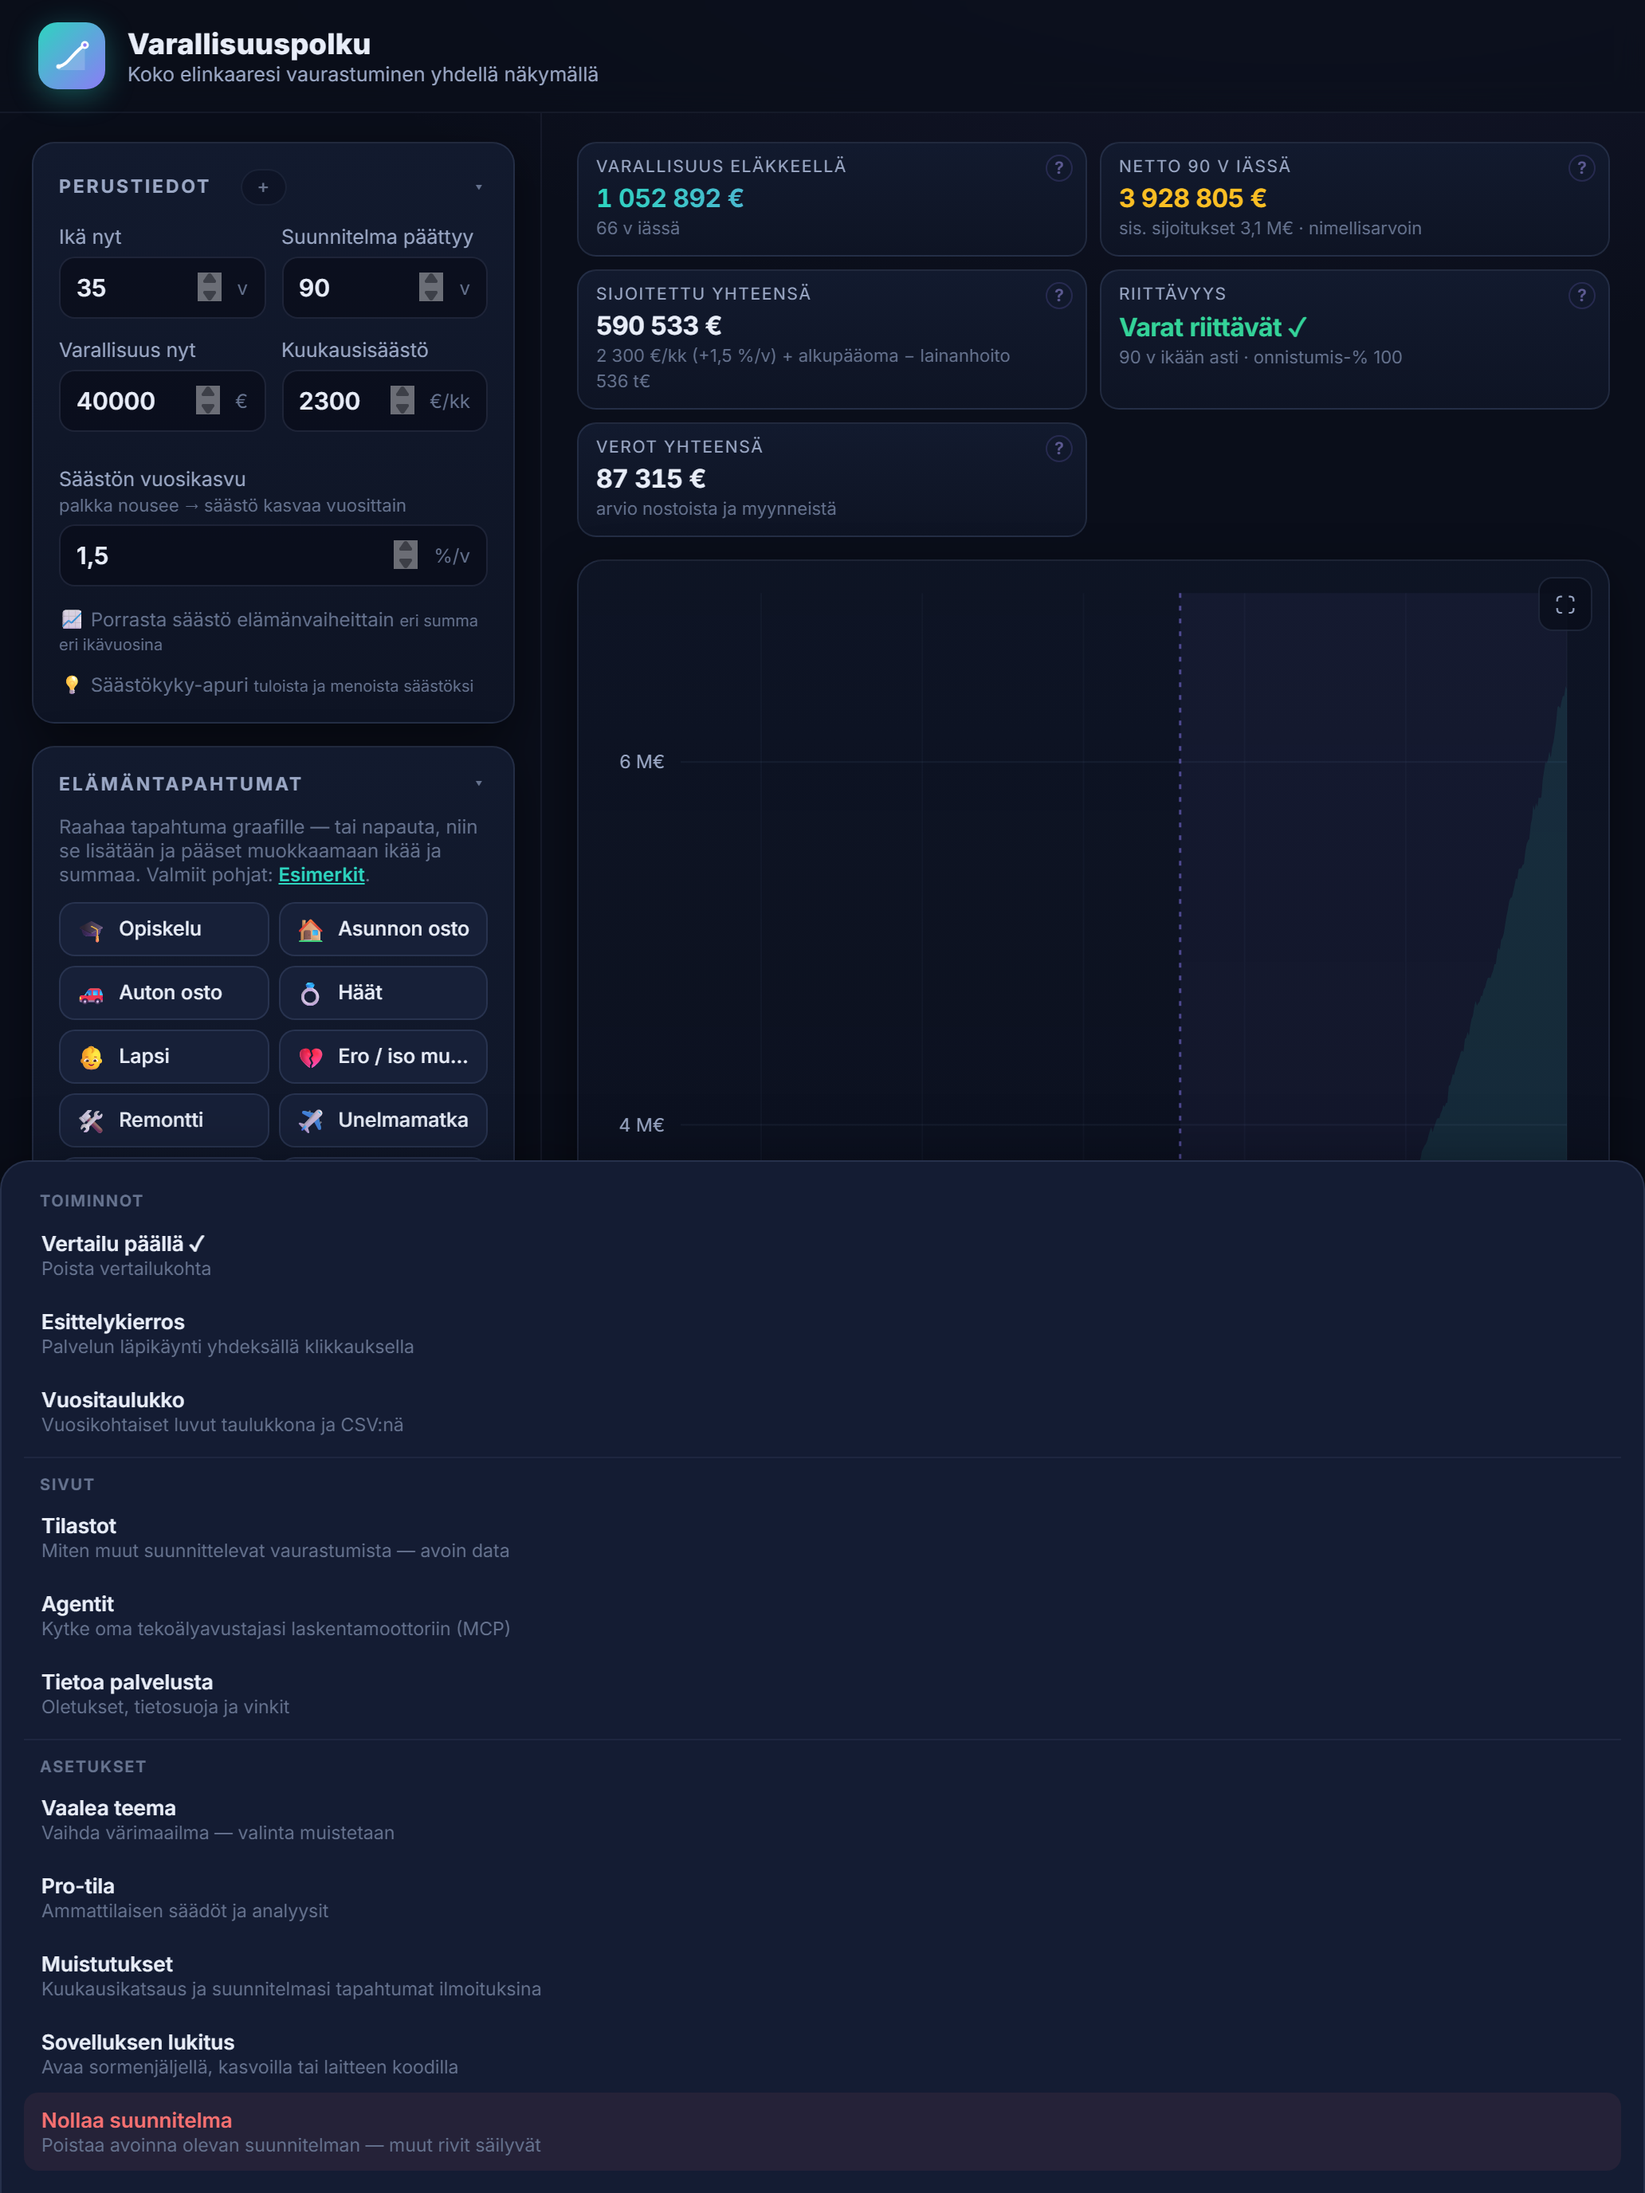
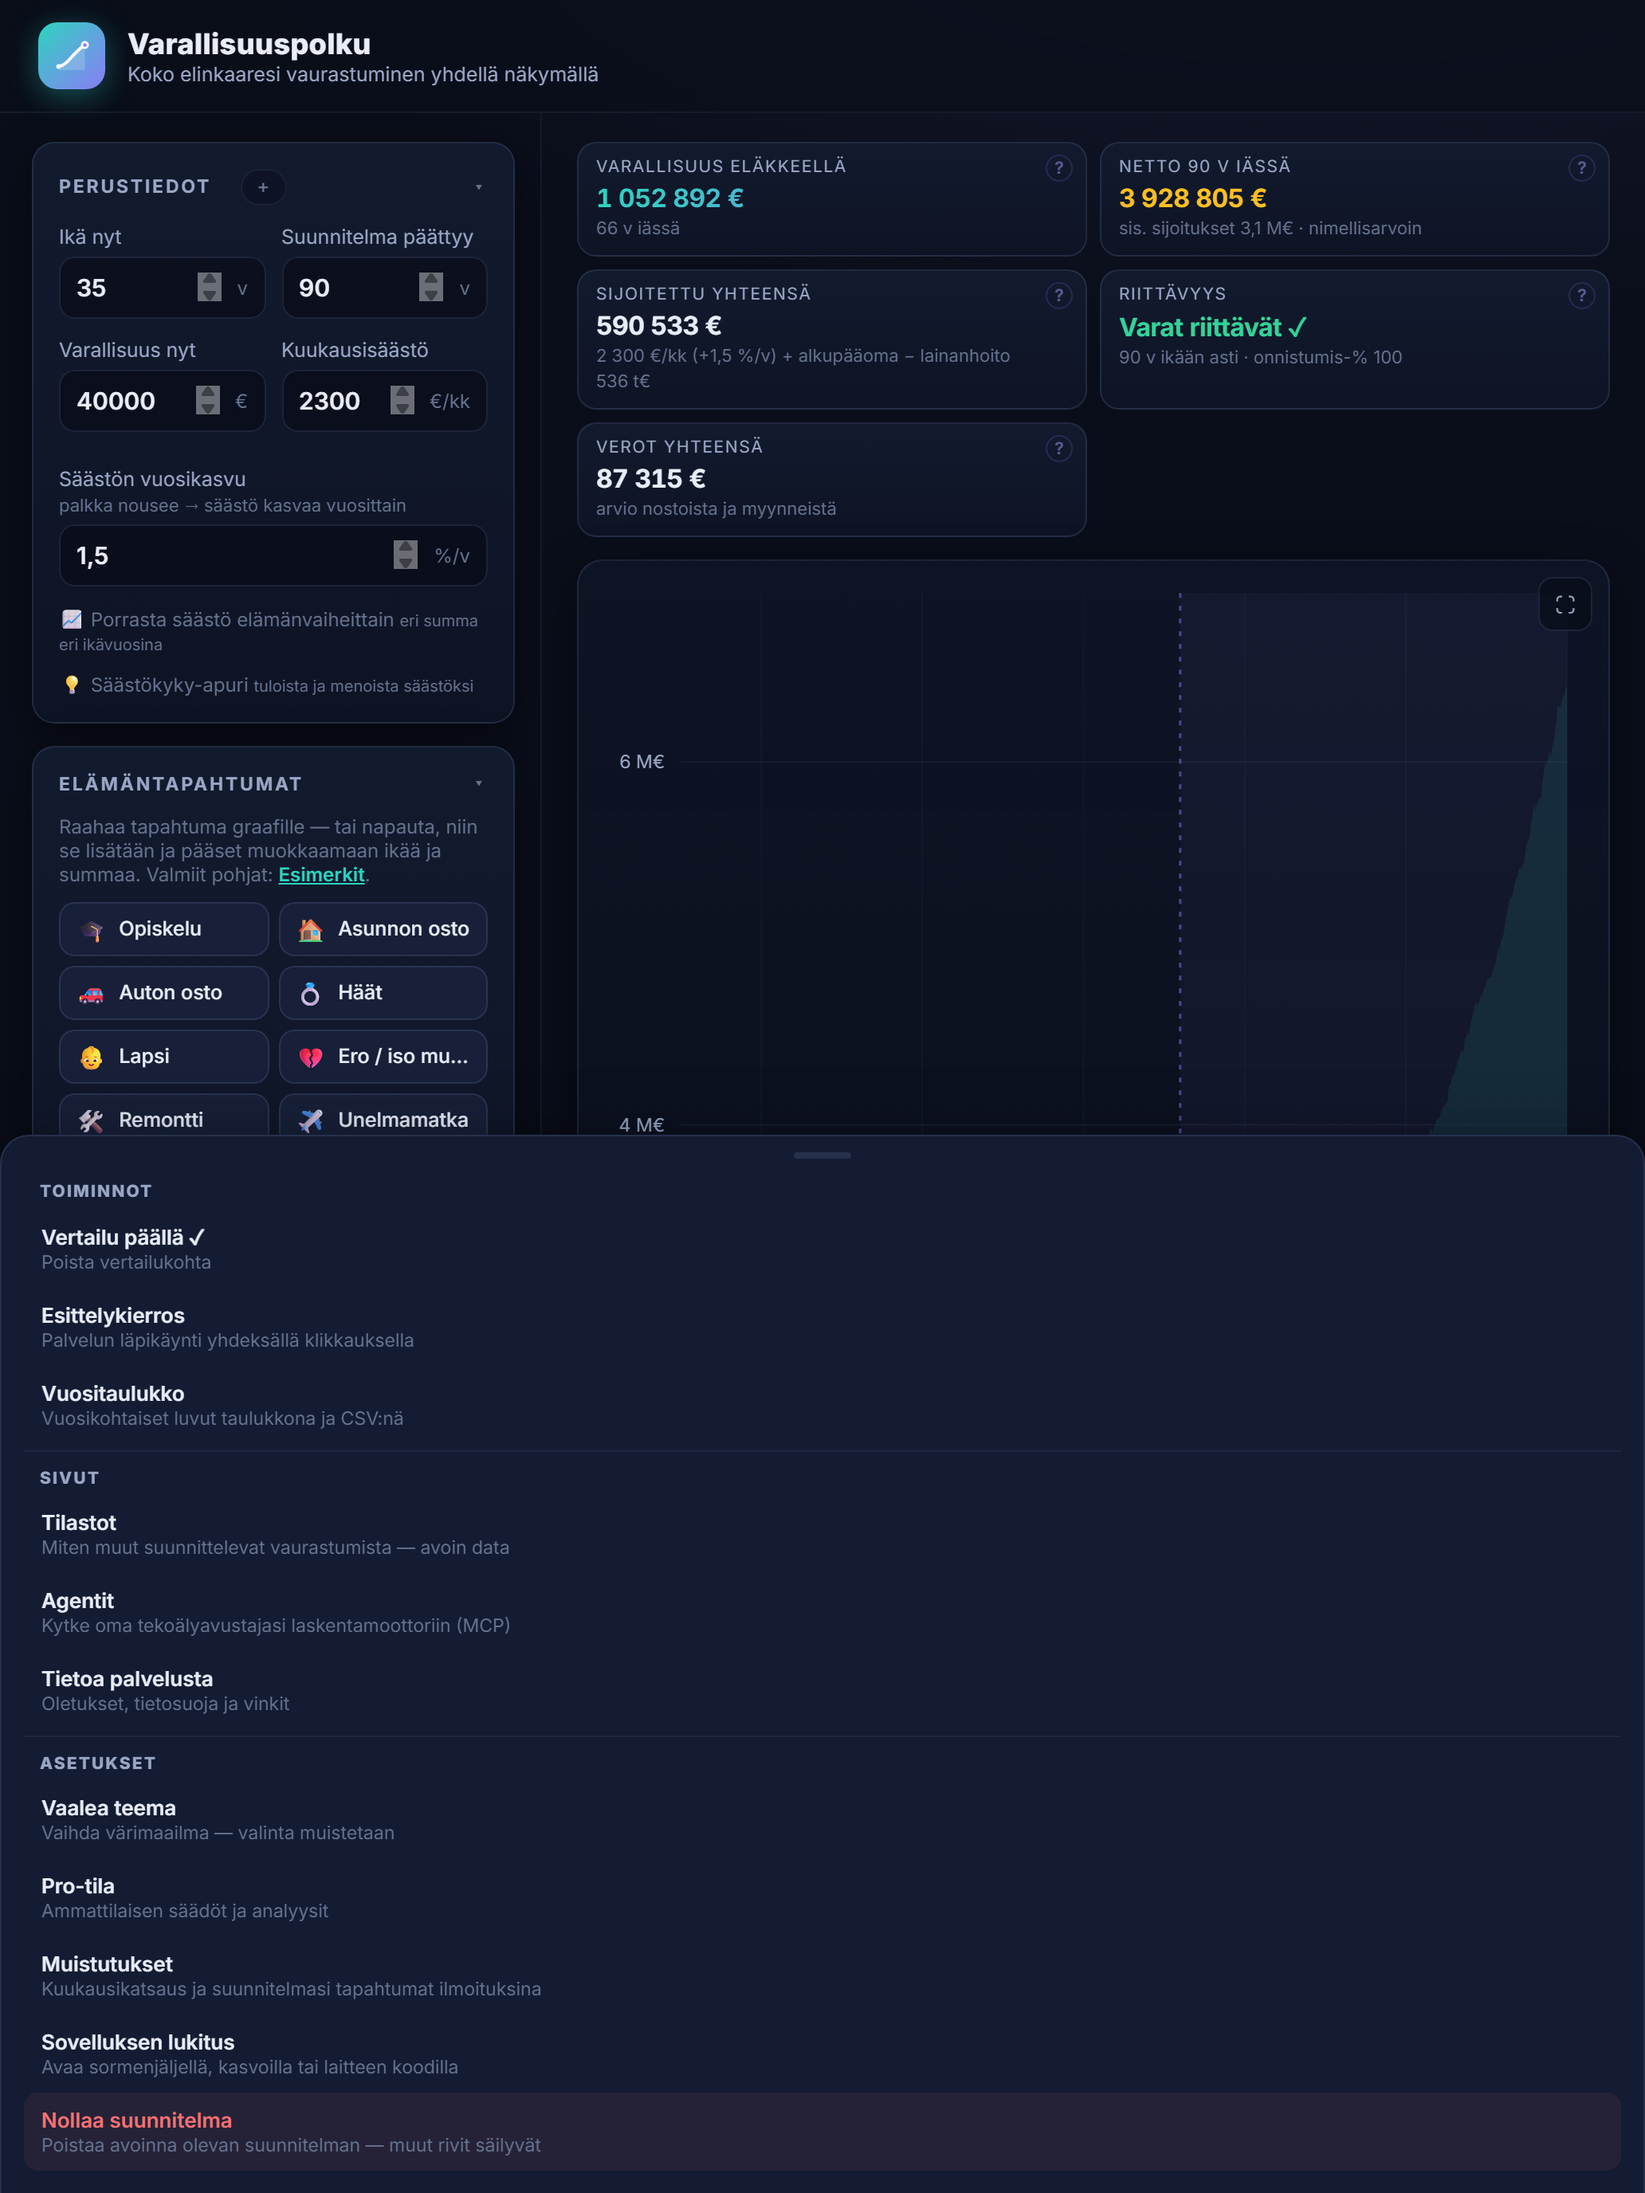
Appin sivumaisuuserä (Olavin havaintokierros #5): (1) Tulkki täytenä sivuna appissa — tk-sheet koko ruutu alapalkin yläreunaan asti (safe-area-top huomioitu), ei enää 76dvh-nousua taustan päälle; (2) Suunnitelmani ja muut modaalisivut päättyvät alapalkin yläreunaan → palkki näkyy ja sillä pääsee poi

diff --git a/alapalkki.js b/alapalkki.js
@@ -52,9 +52,19 @@
     /* valikot bottom sheetinä: appimainen tapa — nousee alhaalta koko leveydeltä
        (sovellus.js asemoi valikon inlinena ankkurin alle → !important ohittaa) */
     'body.vp-has-tabbar .menu{position:fixed !important;top:auto !important;left:0 !important;right:0 !important;bottom:0 !important;',
-    ' max-width:none;border-radius:18px 18px 0 0;border-bottom:0;max-height:75vh;overflow-y:auto;z-index:130;',
-    ' padding:10px 14px calc(14px + env(safe-area-inset-bottom,0px));animation:vp-sheet-up 0.22s ease;}',
+    ' max-width:none;border-radius:18px 18px 0 0;border-bottom:0;overflow-y:auto;z-index:130;',
+    ' max-height:calc(100dvh - 80px - env(safe-area-inset-top,0px));',
+    ' padding:8px 14px calc(14px + env(safe-area-inset-bottom,0px));animation:vp-sheet-up 0.22s ease;}',
+    /* vetokahva kertoo että kyseessä on sheet */
+    'body.vp-has-tabbar .menu::before{content:"";display:block;width:36px;height:4px;border-radius:2px;',
+    ' background:var(--border,rgba(148,168,220,0.35));margin:2px auto 6px;}',
     '@keyframes vp-sheet-up{from{transform:translateY(28px);opacity:0.5}to{transform:none;opacity:1}}',
+    /* Tulkki ja Suunnitelmani täysinä sivuina: koko ruutu alapalkkiin asti —
+       tausta ei kuulla eikä jää "kellumaan" (Olavin laitehavainto 6.8.) */
+    'body.vp-has-tabbar .tk-sheet{top:0 !important;height:auto !important;width:100% !important;',
+    ' bottom:calc(64px + env(safe-area-inset-bottom,0px)) !important;',
+    ' border-radius:0 !important;border-top:0 !important;padding-top:env(safe-area-inset-top,0px);}',
+    'body.vp-has-tabbar .summary{bottom:calc(64px + env(safe-area-inset-bottom,0px));padding-bottom:28px;}',
     /* modaalit (Tietoa, Suunnitelmani, Vuositaulukko…) täysiksi sivuiksi:
        webissä tausta kuultaa peitteen takaa — appissa näkymä avautuu omana
        sivunaan yhdellä siirtymällä (Olavin laitehavainto 6.8.) */
@@ -189,6 +199,27 @@
     bar.appendChild(lisaa);
     document.body.appendChild(bar);
     document.body.classList.add('vp-has-tabbar');
+
+    /* tab-aktiivitilat: Kysy AI ja Suunnitelma näkyvät valittuina kun niiden
+       sivu on auki — sivumaisuus tuntuu aidolta (hidden-attribuutin vahti) */
+    if (!onStats) {
+      setTimeout(function () {
+        var tk = document.querySelector('.tk-sheet');
+        var sum = document.getElementById('summary');
+        if (!sum) return;
+        var paivita = function () {
+          var tkAuki = !!(tk && !tk.hidden);
+          var sumAuki = !sum.hidden;
+          ai.classList.toggle('act', tkAuki);
+          suunnitelma.classList.toggle('act', sumAuki && !tkAuki);
+          polku.classList.toggle('act', !tkAuki && !sumAuki);
+        };
+        var mo = new MutationObserver(paivita);
+        if (tk) mo.observe(tk, { attributes: true, attributeFilter: ['hidden'] });
+        mo.observe(sum, { attributes: true, attributeFilter: ['hidden'] });
+        paivita();
+      }, 400);
+    }
 
     /* tilastosivulta tulleet avausliput (Tulkki/Suunnitelmani etusivulla);
        viive antaa muiden skriptien rakentaa käyttöliittymänsä ensin */

diff --git a/testit/selain/verify-natiivilisat.js b/testit/selain/verify-natiivilisat.js
@@ -219,11 +219,31 @@ server.listen(8134, async () => {
   await pg.click('.vp-tab:nth-child(4)'); // Suunnitelma
   await pg.waitForTimeout(600);
   ok(await pg.evaluate(() => !document.getElementById('summary').hidden), 'Suunnitelma-tabi avaa Suunnitelmani');
+  // täysi sivu: modaali päättyy alapalkin yläreunaan ja tabi näkyy valittuna
+  const sumR = await pg.evaluate(() => ({
+    b: Math.round(document.getElementById('summary').getBoundingClientRect().bottom),
+    ih: window.innerHeight,
+    act: document.querySelectorAll('.vp-tab')[3].classList.contains('act'),
+  }));
+  ok(sumR.b === sumR.ih - 64, 'Suunnitelmani päättyy alapalkin yläreunaan (' + sumR.b + ')');
+  ok(sumR.act, 'Suunnitelma-tabi valittuna kun sivu auki');
   await pg.click('#sumClose');
   await pg.waitForTimeout(300);
+  ok(await pg.evaluate(() => document.querySelectorAll('.vp-tab')[0].classList.contains('act')), 'Polku-tabi palaa valituksi suljettaessa');
   await pg.click('.vp-tab:nth-child(3)'); // Kysy AI
   await pg.waitForTimeout(600);
   ok(await pg.evaluate(() => !document.querySelector('.tk-sheet').hidden), 'Kysy AI -tabi avaa Tulkin');
+  const tkR = await pg.evaluate(() => {
+    const r = document.querySelector('.tk-sheet').getBoundingClientRect();
+    return { t: Math.round(r.top), b: Math.round(r.bottom), ih: window.innerHeight, act: document.querySelectorAll('.vp-tab')[2].classList.contains('act') };
+  });
+  ok(tkR.t === 0 && tkR.b === tkR.ih - 64, 'Tulkki täytenä sivuna alapalkin yllä (' + tkR.t + '–' + tkR.b + ')');
+  ok(tkR.act, 'Kysy AI -tabi valittuna kun Tulkki auki');
+  await ctx.close();
+
+  // 10c) Tilastot-sivun avaustiilet 2 sarakkeessa kapealla näytöllä
+  ({ ctx, pg } = await page({ native: true, url: '/analytiikka.html', plan: true, w: 390, h: 844 }));
+  ok(await pg.evaluate(() => getComputedStyle(document.getElementById('anTiles')).gridTemplateColumns.split(' ').length) === 2, 'tilastotiilet 2 sarakkeessa mobiilissa');
   await ctx.close();
 
   // 11) Tilastot-sivun Lisää avaa sheetin paikan päällä — ei hyppyä etusivulle

diff --git a/style.css b/style.css
@@ -896,8 +896,8 @@ input[type="range"]::-moz-range-thumb {
 .menu button:hover { background: rgba(45, 212, 191, 0.08); }
 .menu .mdesc { font-size: 11.5px; color: var(--text-faint); font-weight: 400; margin-top: 1px; }
 .menu .msect {
-  font-size: 10px; font-weight: 700; letter-spacing: 0.08em; text-transform: uppercase;
-  color: var(--text-faint); padding: 8px 10px 3px; user-select: none;
+  font-size: 10.5px; font-weight: 800; letter-spacing: 0.1em; text-transform: uppercase;
+  color: var(--text-dim); padding: 8px 10px 4px; user-select: none;
 }
 .menu .msect:not(:first-child) { margin-top: 4px; border-top: 1px solid var(--border-soft); padding-top: 10px; }
 .menu button.danger div:first-child { color: var(--danger); }
@@ -2562,3 +2562,11 @@ html.light svg [stroke="rgba(148,168,220,0.35)"] { stroke: rgba(80, 100, 150, 0.
 /* Tulkin injektoima mailto-pilleri on violetti pastelli — tummennetaan */
 html.light .tk-mailto { color: #6250d8; }
 html.light .tk-mailto:hover { color: #4f3fd0; }
+
+/* Tilastot-sivun avaustiilet mobiilissa: 2 saraketta (minmax(160px) ei mahdu
+   328 px:n sisältöleveyteen → valui yhdeksi pinoksi), ensimmäinen tiili
+   koko leveydelle — tasapainoinen 1+2+2-asettelu viidelle tiilelle */
+@media (max-width: 560px) {
+  .an-tiles { grid-template-columns: 1fr 1fr; gap: 8px; }
+  .an-tiles .sum-tile:first-child { grid-column: 1 / -1; }
+}

diff --git a/sw.js b/sw.js
@@ -5,7 +5,7 @@
    välimuistista. Näin julkaisut päivittyvät heti kun verkko on käytössä,
    mutta sovellus toimii myös kokonaan ilman yhteyttä. */
 
-const CACHE = 'varallisuuspolku-v33'; // bump isoissa julkaisuissa: asennuserä pysyy eheänä parina
+const CACHE = 'varallisuuspolku-v34'; // bump isoissa julkaisuissa: asennuserä pysyy eheänä parina
 const CORE = [
   './',
   './index.html',
